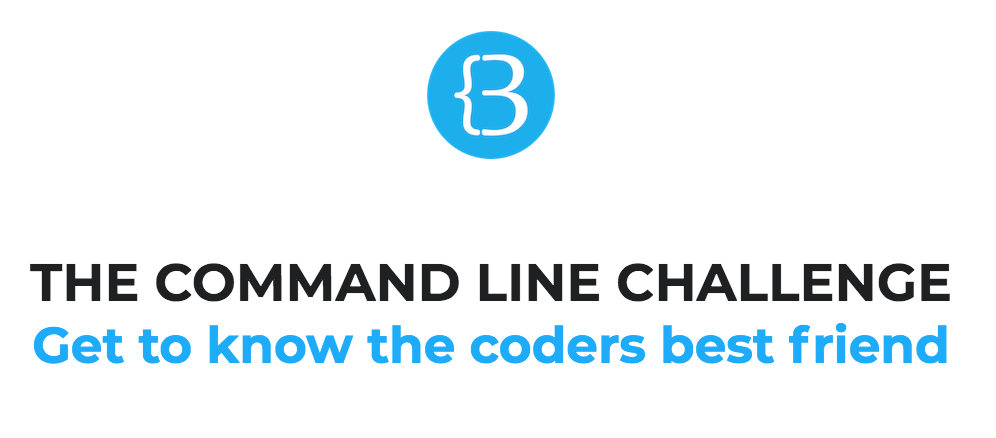
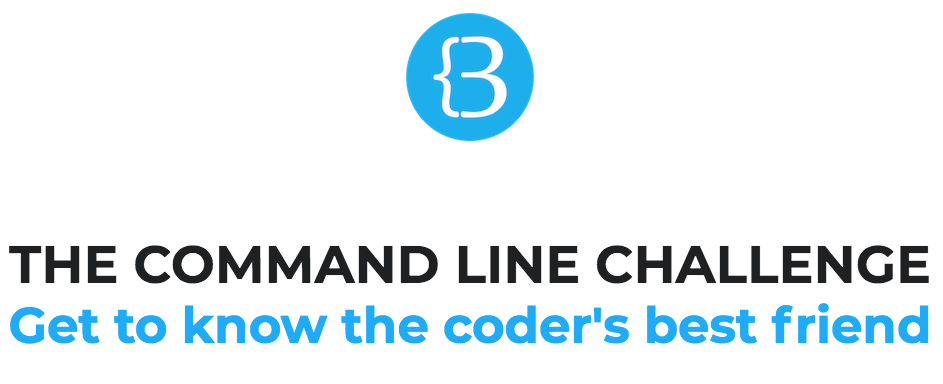
mispell on slide 1

Changed region(s): [[0.0, 0.5938, 0.9841, 0.9062], [0.4305, 0.0312, 0.5843, 0.3438], [0.4613, 0.3438, 0.5228, 0.375]]

diff --git a/slides/index.js b/slides/index.js
@@ -45,7 +45,7 @@ export default class Presentation extends React.Component {
                 The Command Line Challenge
             </Heading>
             <Text margin="10px 0 0" textColor="tertiary" size={1} fit bold>
-                Get to know the coders best friend
+                Get to know the coder's best friend
             </Text>
         </Slide>
         <Slide transition={["fade"]} bgColor="tertiary">
